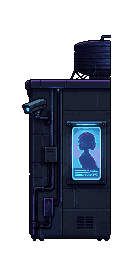
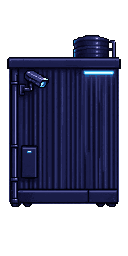
24/7 MART rebuild: all 5 panels regenerated against night-city-props palette
Original batch had drifted off-palette panel-to-panel: each panel landed on
a different base material/color temperature (dark navy metal, lighter gray
brick, cyan glass storefront, dark brick again), so the storefront read as
4-5 unrelated buildings bolted together instead of one connected wall. The
MART neon sign and front_bay trim had also drifted toward magenta/pink,
off the Night City Props reference (cyan/lavender/indigo only).

Rebuilt all 5 panels (left, vending_bay, front_bay, right, blank_wall) using
the same style_image recipe as the original (cropped/downscaled
vending-machine/00.png), with prompts explicitly locking every panel to one
dark navy-indigo corrugated sheet metal material, one roofline, and
forbidding magenta/pink accents. Confirmed against the actual Night City
Props palette extracted from vending-machine, streetlight, neon-sign,
fuse-box and security-camera source art (deep indigo/near-black base,
cyan/lavender glow accents, no magenta/pink) - this is now the standing rule
for all lvl-1 asset generation, not just this batch.

Recomputed manifest trim{x,y,w,h} for all 5 ids from the new art's actual
content bounding boxes. Ran the full PixelLab inspection checklist (edge
pixel check, visual eyeball, edge-to-edge stitch test for both the
vending_bay and blank_wall variants, alpha sanity) before committing.

103 assets unchanged (edit, not add/remove). 2359 passed / 89 failed,
matches current baseline exactly - no regressions.

diff --git a/editor.html b/editor.html
@@ -231,7 +231,7 @@
   #parity-status { font-family:monospace; font-size:10px; letter-spacing:0.3px; line-height:1.6; margin-bottom:6px; }
 
 </style>
-<link rel="stylesheet" href="editor/workspace.css?v=167abc7a8e30f7cb">
+<link rel="stylesheet" href="editor/workspace.css?v=a4a83145ac270688">
 </head>
 <body>
 <div id="editor-root">
@@ -622,52 +622,52 @@
 <script type="importmap">
 {
   "imports": {
-    "./editor/actions.js": "./editor/actions.js?v=167abc7a8e30f7cb",
-    "./editor/assets.js": "./editor/assets.js?v=167abc7a8e30f7cb",
-    "./editor/buildinfo.js": "./editor/buildinfo.js?v=167abc7a8e30f7cb",
-    "./editor/clipboard.js": "./editor/clipboard.js?v=167abc7a8e30f7cb",
-    "./editor/facade.js": "./editor/facade.js?v=167abc7a8e30f7cb",
-    "./editor/generator.js": "./editor/generator.js?v=167abc7a8e30f7cb",
-    "./editor/hero-lab.js": "./editor/hero-lab.js?v=167abc7a8e30f7cb",
-    "./editor/history.js": "./editor/history.js?v=167abc7a8e30f7cb",
-    "./editor/level-shape.js": "./editor/level-shape.js?v=167abc7a8e30f7cb",
-    "./editor/localstore.js": "./editor/localstore.js?v=167abc7a8e30f7cb",
-    "./editor/main.js": "./editor/main.js?v=167abc7a8e30f7cb",
-    "./editor/overcharge-lab.js": "./editor/overcharge-lab.js?v=167abc7a8e30f7cb",
-    "./editor/persistence.js": "./editor/persistence.js?v=167abc7a8e30f7cb",
-    "./editor/renderer.js": "./editor/renderer.js?v=167abc7a8e30f7cb",
-    "./editor/selection.js": "./editor/selection.js?v=167abc7a8e30f7cb",
-    "./editor/snapshots.js": "./editor/snapshots.js?v=167abc7a8e30f7cb",
-    "./editor/snapshotui.js": "./editor/snapshotui.js?v=167abc7a8e30f7cb",
-    "./editor/state.js": "./editor/state.js?v=167abc7a8e30f7cb",
-    "./editor/tools.js": "./editor/tools.js?v=167abc7a8e30f7cb",
-    "./editor/workspace.js": "./editor/workspace.js?v=167abc7a8e30f7cb",
-    "./src_scroll/background.js": "./src_scroll/background.js?v=167abc7a8e30f7cb",
-    "./src_scroll/camera.js": "./src_scroll/camera.js?v=167abc7a8e30f7cb",
-    "./src_scroll/city-drones.js": "./src_scroll/city-drones.js?v=167abc7a8e30f7cb",
-    "./src_scroll/constants.js": "./src_scroll/constants.js?v=167abc7a8e30f7cb",
-    "./src_scroll/deco-anim.js": "./src_scroll/deco-anim.js?v=167abc7a8e30f7cb",
-    "./src_scroll/drone-weapons.js": "./src_scroll/drone-weapons.js?v=167abc7a8e30f7cb",
-    "./src_scroll/electricity.js": "./src_scroll/electricity.js?v=167abc7a8e30f7cb",
-    "./src_scroll/energy-hud.js": "./src_scroll/energy-hud.js?v=167abc7a8e30f7cb",
-    "./src_scroll/entities.js": "./src_scroll/entities.js?v=167abc7a8e30f7cb",
-    "./src_scroll/hero-render.js": "./src_scroll/hero-render.js?v=167abc7a8e30f7cb",
-    "./src_scroll/hero-sprites.js": "./src_scroll/hero-sprites.js?v=167abc7a8e30f7cb",
-    "./src_scroll/input.js": "./src_scroll/input.js?v=167abc7a8e30f7cb",
-    "./src_scroll/level.js": "./src_scroll/level.js?v=167abc7a8e30f7cb",
-    "./src_scroll/levelsig.js": "./src_scroll/levelsig.js?v=167abc7a8e30f7cb",
-    "./src_scroll/main.js": "./src_scroll/main.js?v=167abc7a8e30f7cb",
-    "./src_scroll/player.js": "./src_scroll/player.js?v=167abc7a8e30f7cb",
-    "./src_scroll/render.js": "./src_scroll/render.js?v=167abc7a8e30f7cb",
-    "./src_scroll/source-visuals.js": "./src_scroll/source-visuals.js?v=167abc7a8e30f7cb",
-    "./src_scroll/sprites.js": "./src_scroll/sprites.js?v=167abc7a8e30f7cb",
-    "./src_scroll/terrain-policy.js": "./src_scroll/terrain-policy.js?v=167abc7a8e30f7cb",
-    "./src_scroll/ui.js": "./src_scroll/ui.js?v=167abc7a8e30f7cb",
-    "./src_scroll/viewport.js": "./src_scroll/viewport.js?v=167abc7a8e30f7cb"
+    "./editor/actions.js": "./editor/actions.js?v=a4a83145ac270688",
+    "./editor/assets.js": "./editor/assets.js?v=a4a83145ac270688",
+    "./editor/buildinfo.js": "./editor/buildinfo.js?v=a4a83145ac270688",
+    "./editor/clipboard.js": "./editor/clipboard.js?v=a4a83145ac270688",
+    "./editor/facade.js": "./editor/facade.js?v=a4a83145ac270688",
+    "./editor/generator.js": "./editor/generator.js?v=a4a83145ac270688",
+    "./editor/hero-lab.js": "./editor/hero-lab.js?v=a4a83145ac270688",
+    "./editor/history.js": "./editor/history.js?v=a4a83145ac270688",
+    "./editor/level-shape.js": "./editor/level-shape.js?v=a4a83145ac270688",
+    "./editor/localstore.js": "./editor/localstore.js?v=a4a83145ac270688",
+    "./editor/main.js": "./editor/main.js?v=a4a83145ac270688",
+    "./editor/overcharge-lab.js": "./editor/overcharge-lab.js?v=a4a83145ac270688",
+    "./editor/persistence.js": "./editor/persistence.js?v=a4a83145ac270688",
+    "./editor/renderer.js": "./editor/renderer.js?v=a4a83145ac270688",
+    "./editor/selection.js": "./editor/selection.js?v=a4a83145ac270688",
+    "./editor/snapshots.js": "./editor/snapshots.js?v=a4a83145ac270688",
+    "./editor/snapshotui.js": "./editor/snapshotui.js?v=a4a83145ac270688",
+    "./editor/state.js": "./editor/state.js?v=a4a83145ac270688",
+    "./editor/tools.js": "./editor/tools.js?v=a4a83145ac270688",
+    "./editor/workspace.js": "./editor/workspace.js?v=a4a83145ac270688",
+    "./src_scroll/background.js": "./src_scroll/background.js?v=a4a83145ac270688",
+    "./src_scroll/camera.js": "./src_scroll/camera.js?v=a4a83145ac270688",
+    "./src_scroll/city-drones.js": "./src_scroll/city-drones.js?v=a4a83145ac270688",
+    "./src_scroll/constants.js": "./src_scroll/constants.js?v=a4a83145ac270688",
+    "./src_scroll/deco-anim.js": "./src_scroll/deco-anim.js?v=a4a83145ac270688",
+    "./src_scroll/drone-weapons.js": "./src_scroll/drone-weapons.js?v=a4a83145ac270688",
+    "./src_scroll/electricity.js": "./src_scroll/electricity.js?v=a4a83145ac270688",
+    "./src_scroll/energy-hud.js": "./src_scroll/energy-hud.js?v=a4a83145ac270688",
+    "./src_scroll/entities.js": "./src_scroll/entities.js?v=a4a83145ac270688",
+    "./src_scroll/hero-render.js": "./src_scroll/hero-render.js?v=a4a83145ac270688",
+    "./src_scroll/hero-sprites.js": "./src_scroll/hero-sprites.js?v=a4a83145ac270688",
+    "./src_scroll/input.js": "./src_scroll/input.js?v=a4a83145ac270688",
+    "./src_scroll/level.js": "./src_scroll/level.js?v=a4a83145ac270688",
+    "./src_scroll/levelsig.js": "./src_scroll/levelsig.js?v=a4a83145ac270688",
+    "./src_scroll/main.js": "./src_scroll/main.js?v=a4a83145ac270688",
+    "./src_scroll/player.js": "./src_scroll/player.js?v=a4a83145ac270688",
+    "./src_scroll/render.js": "./src_scroll/render.js?v=a4a83145ac270688",
+    "./src_scroll/source-visuals.js": "./src_scroll/source-visuals.js?v=a4a83145ac270688",
+    "./src_scroll/sprites.js": "./src_scroll/sprites.js?v=a4a83145ac270688",
+    "./src_scroll/terrain-policy.js": "./src_scroll/terrain-policy.js?v=a4a83145ac270688",
+    "./src_scroll/ui.js": "./src_scroll/ui.js?v=a4a83145ac270688",
+    "./src_scroll/viewport.js": "./src_scroll/viewport.js?v=a4a83145ac270688"
   }
 }
 </script>
 <!-- END GENERATED EDITOR MODULE VERSIONS -->
-<script type="module" src="editor/main.js?v=167abc7a8e30f7cb"></script>
+<script type="module" src="editor/main.js?v=a4a83145ac270688"></script>
 </body>
 </html>

diff --git a/hero-lab.html b/hero-lab.html
@@ -37,52 +37,52 @@
 <script type="importmap">
 {
   "imports": {
-    "./editor/actions.js": "./editor/actions.js?v=167abc7a8e30f7cb",
-    "./editor/assets.js": "./editor/assets.js?v=167abc7a8e30f7cb",
-    "./editor/buildinfo.js": "./editor/buildinfo.js?v=167abc7a8e30f7cb",
-    "./editor/clipboard.js": "./editor/clipboard.js?v=167abc7a8e30f7cb",
-    "./editor/facade.js": "./editor/facade.js?v=167abc7a8e30f7cb",
-    "./editor/generator.js": "./editor/generator.js?v=167abc7a8e30f7cb",
-    "./editor/hero-lab.js": "./editor/hero-lab.js?v=167abc7a8e30f7cb",
-    "./editor/history.js": "./editor/history.js?v=167abc7a8e30f7cb",
-    "./editor/level-shape.js": "./editor/level-shape.js?v=167abc7a8e30f7cb",
-    "./editor/localstore.js": "./editor/localstore.js?v=167abc7a8e30f7cb",
-    "./editor/main.js": "./editor/main.js?v=167abc7a8e30f7cb",
-    "./editor/overcharge-lab.js": "./editor/overcharge-lab.js?v=167abc7a8e30f7cb",
-    "./editor/persistence.js": "./editor/persistence.js?v=167abc7a8e30f7cb",
-    "./editor/renderer.js": "./editor/renderer.js?v=167abc7a8e30f7cb",
-    "./editor/selection.js": "./editor/selection.js?v=167abc7a8e30f7cb",
-    "./editor/snapshots.js": "./editor/snapshots.js?v=167abc7a8e30f7cb",
-    "./editor/snapshotui.js": "./editor/snapshotui.js?v=167abc7a8e30f7cb",
-    "./editor/state.js": "./editor/state.js?v=167abc7a8e30f7cb",
-    "./editor/tools.js": "./editor/tools.js?v=167abc7a8e30f7cb",
-    "./editor/workspace.js": "./editor/workspace.js?v=167abc7a8e30f7cb",
-    "./src_scroll/background.js": "./src_scroll/background.js?v=167abc7a8e30f7cb",
-    "./src_scroll/camera.js": "./src_scroll/camera.js?v=167abc7a8e30f7cb",
-    "./src_scroll/city-drones.js": "./src_scroll/city-drones.js?v=167abc7a8e30f7cb",
-    "./src_scroll/constants.js": "./src_scroll/constants.js?v=167abc7a8e30f7cb",
-    "./src_scroll/deco-anim.js": "./src_scroll/deco-anim.js?v=167abc7a8e30f7cb",
-    "./src_scroll/drone-weapons.js": "./src_scroll/drone-weapons.js?v=167abc7a8e30f7cb",
-    "./src_scroll/electricity.js": "./src_scroll/electricity.js?v=167abc7a8e30f7cb",
-    "./src_scroll/energy-hud.js": "./src_scroll/energy-hud.js?v=167abc7a8e30f7cb",
-    "./src_scroll/entities.js": "./src_scroll/entities.js?v=167abc7a8e30f7cb",
-    "./src_scroll/hero-render.js": "./src_scroll/hero-render.js?v=167abc7a8e30f7cb",
-    "./src_scroll/hero-sprites.js": "./src_scroll/hero-sprites.js?v=167abc7a8e30f7cb",
-    "./src_scroll/input.js": "./src_scroll/input.js?v=167abc7a8e30f7cb",
-    "./src_scroll/level.js": "./src_scroll/level.js?v=167abc7a8e30f7cb",
-    "./src_scroll/levelsig.js": "./src_scroll/levelsig.js?v=167abc7a8e30f7cb",
-    "./src_scroll/main.js": "./src_scroll/main.js?v=167abc7a8e30f7cb",
-    "./src_scroll/player.js": "./src_scroll/player.js?v=167abc7a8e30f7cb",
-    "./src_scroll/render.js": "./src_scroll/render.js?v=167abc7a8e30f7cb",
-    "./src_scroll/source-visuals.js": "./src_scroll/source-visuals.js?v=167abc7a8e30f7cb",
-    "./src_scroll/sprites.js": "./src_scroll/sprites.js?v=167abc7a8e30f7cb",
-    "./src_scroll/terrain-policy.js": "./src_scroll/terrain-policy.js?v=167abc7a8e30f7cb",
-    "./src_scroll/ui.js": "./src_scroll/ui.js?v=167abc7a8e30f7cb",
-    "./src_scroll/viewport.js": "./src_scroll/viewport.js?v=167abc7a8e30f7cb"
+    "./editor/actions.js": "./editor/actions.js?v=a4a83145ac270688",
+    "./editor/assets.js": "./editor/assets.js?v=a4a83145ac270688",
+    "./editor/buildinfo.js": "./editor/buildinfo.js?v=a4a83145ac270688",
+    "./editor/clipboard.js": "./editor/clipboard.js?v=a4a83145ac270688",
+    "./editor/facade.js": "./editor/facade.js?v=a4a83145ac270688",
+    "./editor/generator.js": "./editor/generator.js?v=a4a83145ac270688",
+    "./editor/hero-lab.js": "./editor/hero-lab.js?v=a4a83145ac270688",
+    "./editor/history.js": "./editor/history.js?v=a4a83145ac270688",
+    "./editor/level-shape.js": "./editor/level-shape.js?v=a4a83145ac270688",
+    "./editor/localstore.js": "./editor/localstore.js?v=a4a83145ac270688",
+    "./editor/main.js": "./editor/main.js?v=a4a83145ac270688",
+    "./editor/overcharge-lab.js": "./editor/overcharge-lab.js?v=a4a83145ac270688",
+    "./editor/persistence.js": "./editor/persistence.js?v=a4a83145ac270688",
+    "./editor/renderer.js": "./editor/renderer.js?v=a4a83145ac270688",
+    "./editor/selection.js": "./editor/selection.js?v=a4a83145ac270688",
+    "./editor/snapshots.js": "./editor/snapshots.js?v=a4a83145ac270688",
+    "./editor/snapshotui.js": "./editor/snapshotui.js?v=a4a83145ac270688",
+    "./editor/state.js": "./editor/state.js?v=a4a83145ac270688",
+    "./editor/tools.js": "./editor/tools.js?v=a4a83145ac270688",
+    "./editor/workspace.js": "./editor/workspace.js?v=a4a83145ac270688",
+    "./src_scroll/background.js": "./src_scroll/background.js?v=a4a83145ac270688",
+    "./src_scroll/camera.js": "./src_scroll/camera.js?v=a4a83145ac270688",
+    "./src_scroll/city-drones.js": "./src_scroll/city-drones.js?v=a4a83145ac270688",
+    "./src_scroll/constants.js": "./src_scroll/constants.js?v=a4a83145ac270688",
+    "./src_scroll/deco-anim.js": "./src_scroll/deco-anim.js?v=a4a83145ac270688",
+    "./src_scroll/drone-weapons.js": "./src_scroll/drone-weapons.js?v=a4a83145ac270688",
+    "./src_scroll/electricity.js": "./src_scroll/electricity.js?v=a4a83145ac270688",
+    "./src_scroll/energy-hud.js": "./src_scroll/energy-hud.js?v=a4a83145ac270688",
+    "./src_scroll/entities.js": "./src_scroll/entities.js?v=a4a83145ac270688",
+    "./src_scroll/hero-render.js": "./src_scroll/hero-render.js?v=a4a83145ac270688",
+    "./src_scroll/hero-sprites.js": "./src_scroll/hero-sprites.js?v=a4a83145ac270688",
+    "./src_scroll/input.js": "./src_scroll/input.js?v=a4a83145ac270688",
+    "./src_scroll/level.js": "./src_scroll/level.js?v=a4a83145ac270688",
+    "./src_scroll/levelsig.js": "./src_scroll/levelsig.js?v=a4a83145ac270688",
+    "./src_scroll/main.js": "./src_scroll/main.js?v=a4a83145ac270688",
+    "./src_scroll/player.js": "./src_scroll/player.js?v=a4a83145ac270688",
+    "./src_scroll/render.js": "./src_scroll/render.js?v=a4a83145ac270688",
+    "./src_scroll/source-visuals.js": "./src_scroll/source-visuals.js?v=a4a83145ac270688",
+    "./src_scroll/sprites.js": "./src_scroll/sprites.js?v=a4a83145ac270688",
+    "./src_scroll/terrain-policy.js": "./src_scroll/terrain-policy.js?v=a4a83145ac270688",
+    "./src_scroll/ui.js": "./src_scroll/ui.js?v=a4a83145ac270688",
+    "./src_scroll/viewport.js": "./src_scroll/viewport.js?v=a4a83145ac270688"
   }
 }
 </script>
 <!-- END GENERATED HERO LAB MODULE VERSIONS -->
-<script type="module" src="editor/hero-lab.js?v=167abc7a8e30f7cb"></script>
+<script type="module" src="editor/hero-lab.js?v=a4a83145ac270688"></script>
 </body>
 </html>

diff --git a/index.html b/index.html
@@ -49,52 +49,52 @@
 <script type="importmap">
 {
   "imports": {
-    "./editor/actions.js": "./editor/actions.js?v=167abc7a8e30f7cb",
-    "./editor/assets.js": "./editor/assets.js?v=167abc7a8e30f7cb",
-    "./editor/buildinfo.js": "./editor/buildinfo.js?v=167abc7a8e30f7cb",
-    "./editor/clipboard.js": "./editor/clipboard.js?v=167abc7a8e30f7cb",
-    "./editor/facade.js": "./editor/facade.js?v=167abc7a8e30f7cb",
-    "./editor/generator.js": "./editor/generator.js?v=167abc7a8e30f7cb",
-    "./editor/hero-lab.js": "./editor/hero-lab.js?v=167abc7a8e30f7cb",
-    "./editor/history.js": "./editor/history.js?v=167abc7a8e30f7cb",
-    "./editor/level-shape.js": "./editor/level-shape.js?v=167abc7a8e30f7cb",
-    "./editor/localstore.js": "./editor/localstore.js?v=167abc7a8e30f7cb",
-    "./editor/main.js": "./editor/main.js?v=167abc7a8e30f7cb",
-    "./editor/overcharge-lab.js": "./editor/overcharge-lab.js?v=167abc7a8e30f7cb",
-    "./editor/persistence.js": "./editor/persistence.js?v=167abc7a8e30f7cb",
-    "./editor/renderer.js": "./editor/renderer.js?v=167abc7a8e30f7cb",
-    "./editor/selection.js": "./editor/selection.js?v=167abc7a8e30f7cb",
-    "./editor/snapshots.js": "./editor/snapshots.js?v=167abc7a8e30f7cb",
-    "./editor/snapshotui.js": "./editor/snapshotui.js?v=167abc7a8e30f7cb",
-    "./editor/state.js": "./editor/state.js?v=167abc7a8e30f7cb",
-    "./editor/tools.js": "./editor/tools.js?v=167abc7a8e30f7cb",
-    "./editor/workspace.js": "./editor/workspace.js?v=167abc7a8e30f7cb",
-    "./src_scroll/background.js": "./src_scroll/background.js?v=167abc7a8e30f7cb",
-    "./src_scroll/camera.js": "./src_scroll/camera.js?v=167abc7a8e30f7cb",
-    "./src_scroll/city-drones.js": "./src_scroll/city-drones.js?v=167abc7a8e30f7cb",
-    "./src_scroll/constants.js": "./src_scroll/constants.js?v=167abc7a8e30f7cb",
-    "./src_scroll/deco-anim.js": "./src_scroll/deco-anim.js?v=167abc7a8e30f7cb",
-    "./src_scroll/drone-weapons.js": "./src_scroll/drone-weapons.js?v=167abc7a8e30f7cb",
-    "./src_scroll/electricity.js": "./src_scroll/electricity.js?v=167abc7a8e30f7cb",
-    "./src_scroll/energy-hud.js": "./src_scroll/energy-hud.js?v=167abc7a8e30f7cb",
-    "./src_scroll/entities.js": "./src_scroll/entities.js?v=167abc7a8e30f7cb",
-    "./src_scroll/hero-render.js": "./src_scroll/hero-render.js?v=167abc7a8e30f7cb",
-    "./src_scroll/hero-sprites.js": "./src_scroll/hero-sprites.js?v=167abc7a8e30f7cb",
-    "./src_scroll/input.js": "./src_scroll/input.js?v=167abc7a8e30f7cb",
-    "./src_scroll/level.js": "./src_scroll/level.js?v=167abc7a8e30f7cb",
-    "./src_scroll/levelsig.js": "./src_scroll/levelsig.js?v=167abc7a8e30f7cb",
-    "./src_scroll/main.js": "./src_scroll/main.js?v=167abc7a8e30f7cb",
-    "./src_scroll/player.js": "./src_scroll/player.js?v=167abc7a8e30f7cb",
-    "./src_scroll/render.js": "./src_scroll/render.js?v=167abc7a8e30f7cb",
-    "./src_scroll/source-visuals.js": "./src_scroll/source-visuals.js?v=167abc7a8e30f7cb",
-    "./src_scroll/sprites.js": "./src_scroll/sprites.js?v=167abc7a8e30f7cb",
-    "./src_scroll/terrain-policy.js": "./src_scroll/terrain-policy.js?v=167abc7a8e30f7cb",
-    "./src_scroll/ui.js": "./src_scroll/ui.js?v=167abc7a8e30f7cb",
-    "./src_scroll/viewport.js": "./src_scroll/viewport.js?v=167abc7a8e30f7cb"
+    "./editor/actions.js": "./editor/actions.js?v=a4a83145ac270688",
+    "./editor/assets.js": "./editor/assets.js?v=a4a83145ac270688",
+    "./editor/buildinfo.js": "./editor/buildinfo.js?v=a4a83145ac270688",
+    "./editor/clipboard.js": "./editor/clipboard.js?v=a4a83145ac270688",
+    "./editor/facade.js": "./editor/facade.js?v=a4a83145ac270688",
+    "./editor/generator.js": "./editor/generator.js?v=a4a83145ac270688",
+    "./editor/hero-lab.js": "./editor/hero-lab.js?v=a4a83145ac270688",
+    "./editor/history.js": "./editor/history.js?v=a4a83145ac270688",
+    "./editor/level-shape.js": "./editor/level-shape.js?v=a4a83145ac270688",
+    "./editor/localstore.js": "./editor/localstore.js?v=a4a83145ac270688",
+    "./editor/main.js": "./editor/main.js?v=a4a83145ac270688",
+    "./editor/overcharge-lab.js": "./editor/overcharge-lab.js?v=a4a83145ac270688",
+    "./editor/persistence.js": "./editor/persistence.js?v=a4a83145ac270688",
+    "./editor/renderer.js": "./editor/renderer.js?v=a4a83145ac270688",
+    "./editor/selection.js": "./editor/selection.js?v=a4a83145ac270688",
+    "./editor/snapshots.js": "./editor/snapshots.js?v=a4a83145ac270688",
+    "./editor/snapshotui.js": "./editor/snapshotui.js?v=a4a83145ac270688",
+    "./editor/state.js": "./editor/state.js?v=a4a83145ac270688",
+    "./editor/tools.js": "./editor/tools.js?v=a4a83145ac270688",
+    "./editor/workspace.js": "./editor/workspace.js?v=a4a83145ac270688",
+    "./src_scroll/background.js": "./src_scroll/background.js?v=a4a83145ac270688",
+    "./src_scroll/camera.js": "./src_scroll/camera.js?v=a4a83145ac270688",
+    "./src_scroll/city-drones.js": "./src_scroll/city-drones.js?v=a4a83145ac270688",
+    "./src_scroll/constants.js": "./src_scroll/constants.js?v=a4a83145ac270688",
+    "./src_scroll/deco-anim.js": "./src_scroll/deco-anim.js?v=a4a83145ac270688",
+    "./src_scroll/drone-weapons.js": "./src_scroll/drone-weapons.js?v=a4a83145ac270688",
+    "./src_scroll/electricity.js": "./src_scroll/electricity.js?v=a4a83145ac270688",
+    "./src_scroll/energy-hud.js": "./src_scroll/energy-hud.js?v=a4a83145ac270688",
+    "./src_scroll/entities.js": "./src_scroll/entities.js?v=a4a83145ac270688",
+    "./src_scroll/hero-render.js": "./src_scroll/hero-render.js?v=a4a83145ac270688",
+    "./src_scroll/hero-sprites.js": "./src_scroll/hero-sprites.js?v=a4a83145ac270688",
+    "./src_scroll/input.js": "./src_scroll/input.js?v=a4a83145ac270688",
+    "./src_scroll/level.js": "./src_scroll/level.js?v=a4a83145ac270688",
+    "./src_scroll/levelsig.js": "./src_scroll/levelsig.js?v=a4a83145ac270688",
+    "./src_scroll/main.js": "./src_scroll/main.js?v=a4a83145ac270688",
+    "./src_scroll/player.js": "./src_scroll/player.js?v=a4a83145ac270688",
+    "./src_scroll/render.js": "./src_scroll/render.js?v=a4a83145ac270688",
+    "./src_scroll/source-visuals.js": "./src_scroll/source-visuals.js?v=a4a83145ac270688",
+    "./src_scroll/sprites.js": "./src_scroll/sprites.js?v=a4a83145ac270688",
+    "./src_scroll/terrain-policy.js": "./src_scroll/terrain-policy.js?v=a4a83145ac270688",
+    "./src_scroll/ui.js": "./src_scroll/ui.js?v=a4a83145ac270688",
+    "./src_scroll/viewport.js": "./src_scroll/viewport.js?v=a4a83145ac270688"
   }
 }
 </script>
 <!-- END GENERATED GAME MODULE VERSIONS -->
-<script type="module" src="src_scroll/main.js?v=167abc7a8e30f7cb"></script>
+<script type="module" src="src_scroll/main.js?v=a4a83145ac270688"></script>
 </body>
 </html>

diff --git a/editor/buildinfo.js b/editor/buildinfo.js
@@ -1,9 +1,9 @@
 // GENERATED by scripts/build_info.mjs — do not hand-edit.
 export const BUILD = {
   "branch": "agent/aki-editor",
-  "shaShort": "faa3b7e",
-  "shaFull": "faa3b7eea0919d470416a187ba51af85bffb5796",
+  "shaShort": "0a968fd",
+  "shaFull": "0a968fd7ffca60bdc84b9b7c2a19dd6b2f53b115",
   "worktree": "overcharge-aki",
   "dirty": true,
-  "generated": "2026-10-03T03:03:37.701Z"
+  "generated": "2026-10-03T03:43:15.839Z"
 };

diff --git a/assets/objects/night-city-buildings/convenience_store/README.md b/assets/objects/night-city-buildings/convenience_store/README.md
@@ -22,6 +22,24 @@ Same approach as the warehouse: PixelLab `create_image_pro_flash`, each panel
 using a cropped/downscaled copy of `assets/objects/night-city-props/
 vending-machine/00.png` as the `style_image` reference.
 
+## Rebuild (2026-10-02)
+All 5 panels regenerated against the same `vending-machine/00.png` style_image
+(same crop/downscale recipe as the warehouse) after the original batch drifted
+off-palette panel-to-panel - each panel had landed on a different base
+material/color temperature (dark navy metal, lighter gray brick, cyan glass,
+dark brick again), so the storefront read as 4-5 unrelated buildings bolted
+together rather than one connected wall. The rebuild prompts explicitly lock
+every panel to the same dark navy-indigo corrugated sheet metal and forbid
+magenta/pink accent lighting (the old front_bay MART sign and trim had
+drifted toward magenta - off the Night City Props reference palette, which is
+cyan/lavender/indigo only). `trim` values in the manifest were recomputed from
+the new arts actual content bounding boxes. Per standing rule: all lvl-1
+assets must match the Night City Props color palette
+(`assets/objects/night-city-props/`), confirmed via per-asset palette
+extraction (vending-machine, streetlight, neon-sign, fuse-box,
+security-camera) - deep indigo/near-black base (`#03010c`-`#232450`) with
+cyan/lavender glow accents (`#72bdce`, `#868fc8`, `#5e8baa`), no magenta/pink.
+
 ## Status
 Wired into `assets/ASSET_MANIFEST.json` as 5 placeable decoration items,
 tagged `building` (same tag-driven "Buildings" filter as the warehouse - no
